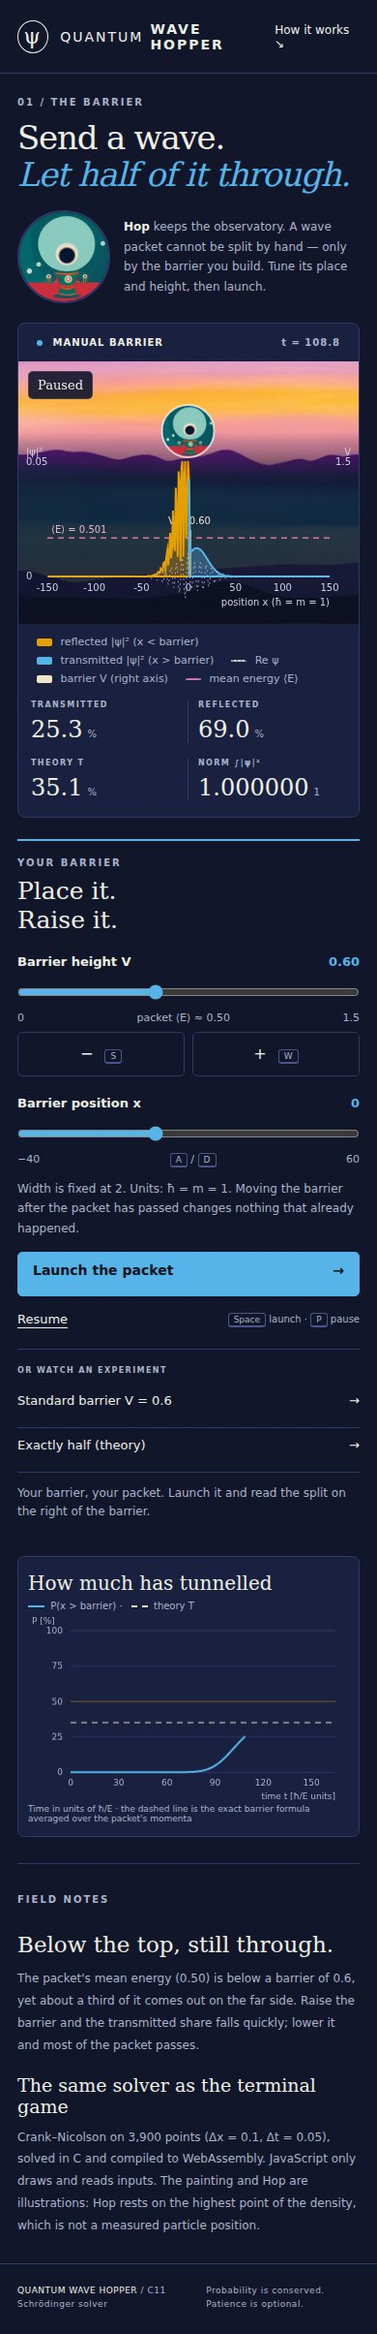
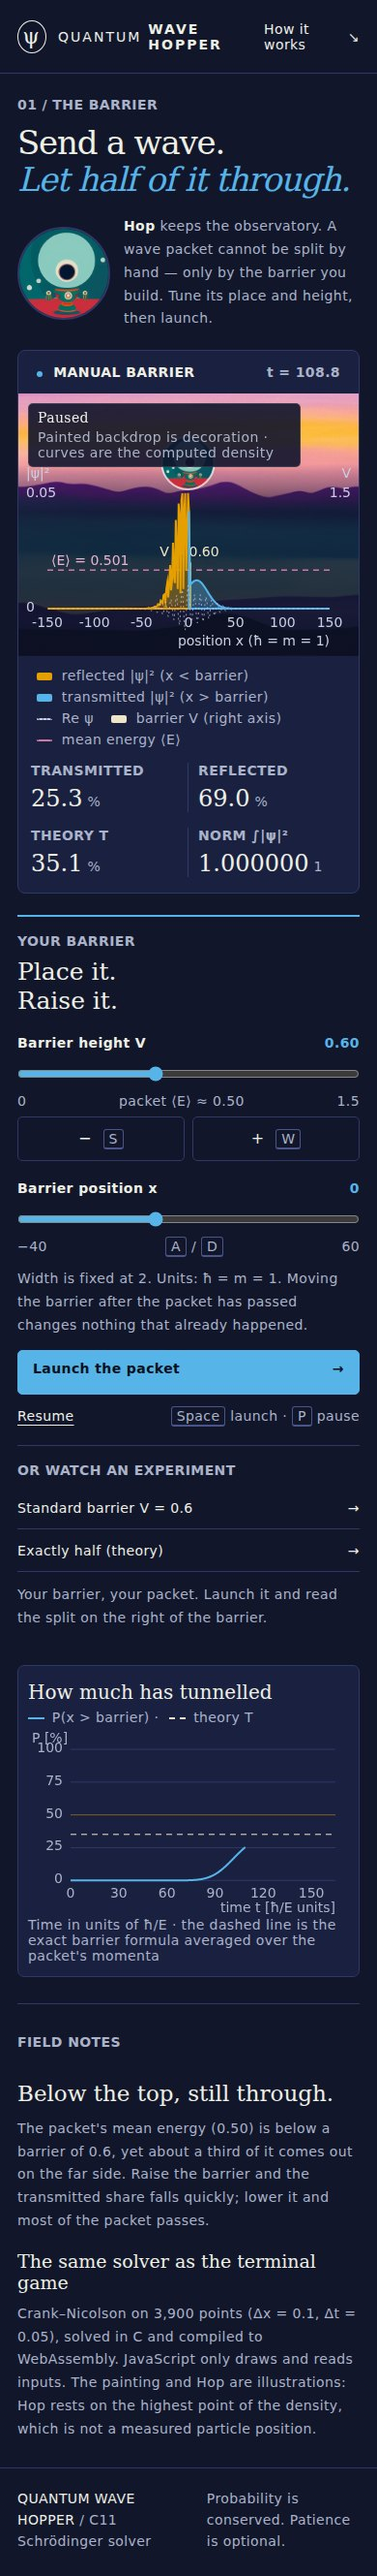
Phone screens: all text at least 14 px, read-only gate hook
Closes #13

diff --git a/web/style.css b/web/style.css
@@ -63,4 +63,14 @@ footer{border-top:1px solid var(--line);padding-top:20px;padding-bottom:24px;dis
 .muted,footer>span:last-child{color:var(--muted)}[hidden]{display:none!important}
 @media(max-width:1000px){.topbar,main,footer{padding-left:24px;padding-right:24px}.layout{grid-template-columns:minmax(0,1fr) 245px;gap:18px}h1{font-size:36px}.telemetry strong{font-size:24px}.telemetry>div{padding:0 10px}.topbar>.eyebrow{display:none}}
 @media(max-width:720px){.topbar,main,footer{padding-left:18px;padding-right:18px}.topbar{height:76px}.brand{font-size:14px;letter-spacing:2px}.intro{display:block;padding:24px 0 20px}h1{font-size:34px}.guide{margin-top:18px}.guide p{font-size:12px}.layout{grid-template-columns:1fr;gap:22px}.scene canvas{aspect-ratio:1.3}.scene-label{max-width:80%;left:10px;top:10px}.scene-label span{font-size:13px}.scene-label{padding:6px 9px}.scene-label small{display:none}#goal{top:auto;bottom:10px;right:10px}.legend{font-size:11px}.telemetry{grid-template-columns:repeat(2,1fr);row-gap:16px;padding:16px 3px}.telemetry>div:nth-child(2){border:0}.telemetry strong{font-size:24px}.telemetry span{font-size:8px}.control-panel label{font-size:13px}.control-note,.experiment p:last-child{font-size:12px}.primary{font-size:14px}.experiment button{font-size:13px}.range-ends{font-size:11px}.secondary-actions button{font-size:13px}#plot{aspect-ratio:1.7}.chart-panel{padding:15px 10px 10px}.chart-heading{display:block}.chart-heading>span{display:block;margin-top:6px;font-size:10px}.field-notes{grid-template-columns:1fr;gap:18px;margin:27px 0}.field-notes p:not(.eyebrow){font-size:12px}footer{gap:20px;line-height:1.6}}
+/* Phones (narrow, short or touch-first): every text at least 14 CSS px, every control at least 44 px. */
+@media(max-width:720px),(max-height:500px),(pointer:coarse){
+body{font-size:16px}
+.eyebrow,.about-link,.guide p,.view-heading,.scene-label small,#goal,.legend,.telemetry span,.telemetry small,.control-panel label,.range-ends,kbd,.control-note,.primary,.secondary-actions,.secondary-actions button,.experiment .eyebrow,.experiment button,.experiment p:last-child,.chart-heading>span,.chart-panel>p,.field-notes p:not(.eyebrow),footer,.guide p,.scene-label span,.legend,.telemetry span,.control-panel label,.control-note,.experiment p:last-child,.experiment button,.range-ends,.secondary-actions button,.chart-heading>span,.field-notes p:not(.eyebrow){font-size:14px;letter-spacing:.4px}
+.scene-label small{display:block}
+.topbar>.eyebrow{display:none}
+.about-link,.secondary-actions button,.experiment button{min-height:44px;display:inline-flex;align-items:center}
+.experiment button{display:flex}
+.control-note,.experiment p:last-child,.field-notes p:not(.eyebrow){line-height:1.7}
+}
 @media(prefers-reduced-motion:reduce){*{scroll-behavior:auto}}

diff --git a/CLAUDE.md b/CLAUDE.md
@@ -13,6 +13,7 @@ C11 + libm の 1 次元時間依存シュレーディンガー方程式ソルバ
 - 理論の手引きは `docs/theory/`。`make theory-figs` が図と実測値の表を `tests/theory_figs.c` から再生成し、`make theory-check` が
   対応表(文 → 頁 → 図 → 関数 → テスト)の欠け・リンク切れ・消えた関数名・未掲載の公開関数で落ちる。法則・規則を足したら同じ PR で頁と図と表を足す。
   README の「14 statements」は表の行数と合わせる。
+- スマホ(幅 720px 以下・高さ 500px 以下・タッチ主体)では DOM と canvas の全文字を 14 CSS px 以上、操作を 44 CSS px 以上にする。`make smoke` が 390×844 と 844×390 で実測する。`window.__tmGate` は読み取り専用。
 - CI は PR の軽量ゲート(docker build で `make test && make plots`)のみ。WASM ビルド・撮影・E2E はローカル専用。
 - 公開 repo。コミット・PR に生成 AI の署名、私的な情報を入れない(公開前に private 情報の検査と差分の目視を行う)。
 - 実画面は `docs/images/`(`make smoke` が撮る)、原画と生成指示・採否は `assets/art/` と `docs/art-direction.md`。
